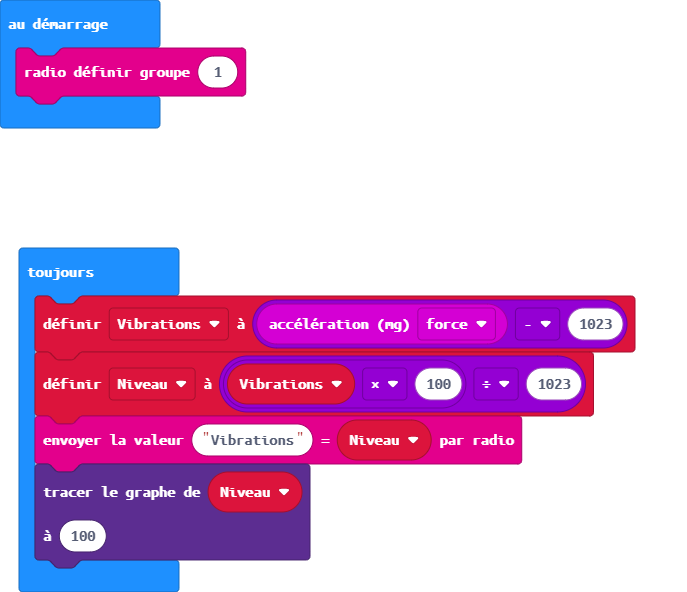
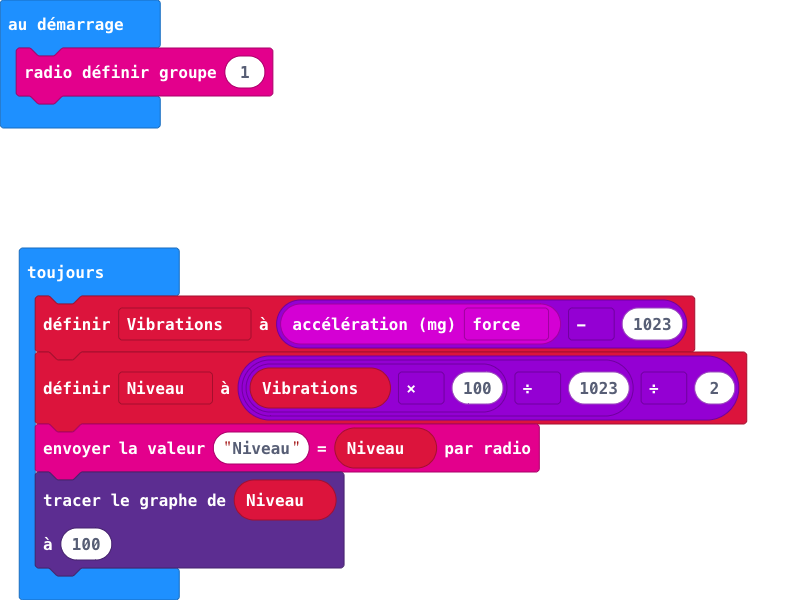
Mettre à jour main.blocks, main.ts

Changed region(s): [[0.0, 0.3953, 0.9476, 1.0], [0.0, 0.0, 0.3668, 0.2432]]

diff --git a/main.ts b/main.ts
@@ -3,7 +3,7 @@ let Vibrations = 0
 radio.setGroup(1)
 basic.forever(function () {
     Vibrations = input.acceleration(Dimension.Strength) - 1023
-    Niveau = Vibrations * 100 / 1023
+    Niveau = Vibrations * 100 / 1023 / 2
     radio.sendValue("Niveau", Niveau)
     led.plotBarGraph(
     Niveau,
